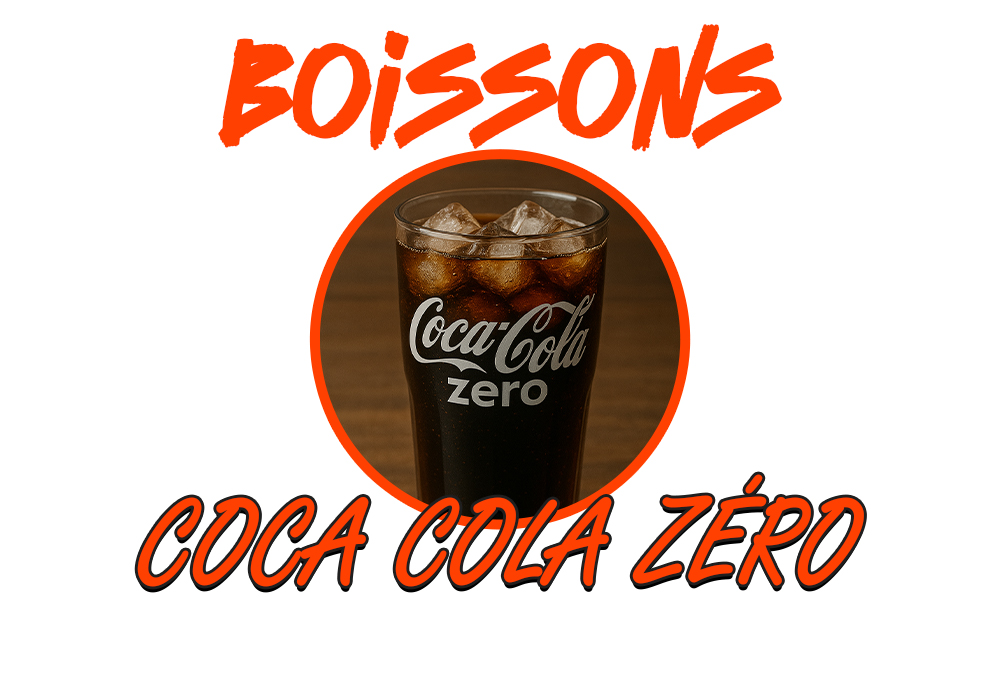
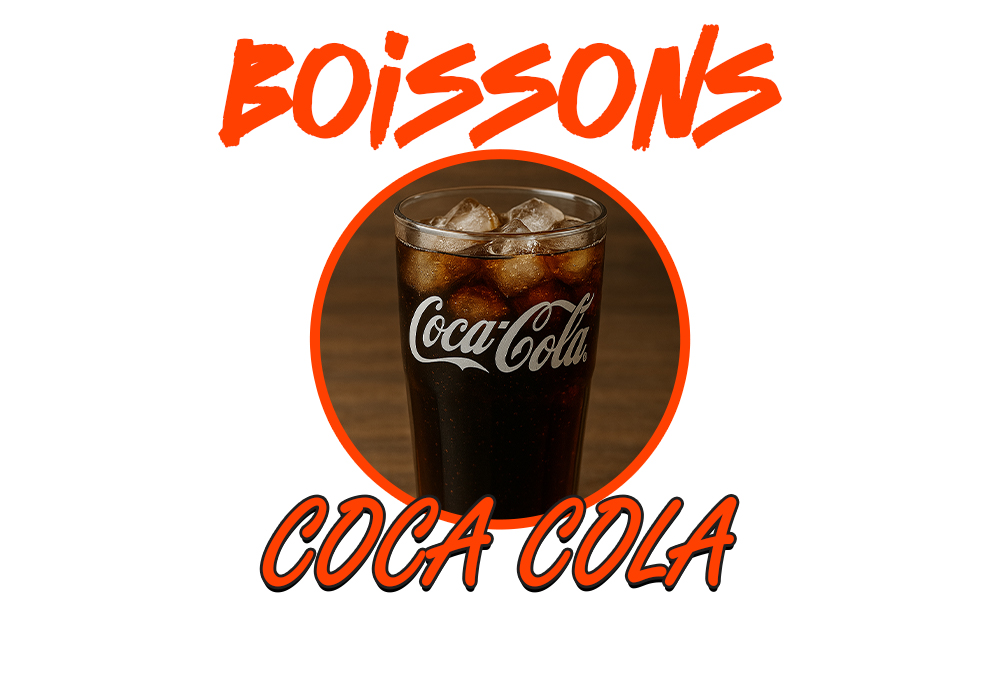
fixed and adjusted prices and categories and everything related to seeders according to midnight sushi menu logic

Changed region(s): [[0.124, 0.6804, 0.868, 0.8969], [0.403, 0.2784, 0.62, 0.6495]]

diff --git a/database/seeders/ProductsSeeder.php b/database/seeders/ProductsSeeder.php
@@ -18,21 +18,21 @@ class ProductsSeeder extends Seeder
             'Nigiris' => Category::firstOrCreate(['name' => 'Nigiris'], ['slug' => 'nigiris'])->id,
             'Desserts' => Category::firstOrCreate(['name' => 'Desserts'], ['slug' => 'desserts'])->id,
             'Condiments' => Category::firstOrCreate(['name' => 'Condiments'], ['slug' => 'condiments'])->id,
+            'Boissons' => Category::firstOrCreate(['name' => 'Boissons'], ['slug' => 'boissons'])->id,
         ];
-
         $products = [
             // Californias
             [
-                'name' => 'Californias Saumon-Avocat',
-                'price' => 19.00,
+                'name' => 'Californias Saumon-Avocat x8',
+                'price' => 18.00,
                 'description' => 'Saumon et avocat',
                 'category_id' => $categories['Californias'],
                 'image' => 'images/midnight_sushi/californias-saumon-avocat.jpg',
                 'allergens' => ['Poisson', 'Gluten']
             ],
             [
-                'name' => 'Californias Saumon-Avocat Cheese',
-                'price' => 12.00,
+                'name' => 'Californias Saumon-Avocat Cheese x8',
+                'price' => 19.00,
                 'description' => 'Saumon, avocat, fromage frais',
                 'category_id' => $categories['Californias'],
                 'image' => 'images/midnight_sushi/californias-saumon-avocat-cheese.jpg',
@@ -57,16 +57,16 @@ class ProductsSeeder extends Seeder
                 'allergens' => ['Poisson', 'Gluten']
             ],
             [
-                'name' => 'Maki Saumon Avocat',
-                'price' => 14.00,
+                'name' => 'Maki Saumon Avocat x8',
+                'price' => 12.00,
                 'description' => 'Maki au saumon frais et avocat',
                 'category_id' => $categories['Makis'],
                 'image' => 'images/midnight_sushi/maki-saumon-avocat.jpg',
                 'allergens' => ['Poisson', 'Gluten']
             ],
             [
-                'name' => 'Maki Crevette Avocat',
-                'price' => 15.00,
+                'name' => 'Maki Crevette Avocat x8',
+                'price' => 12.00,
                 'description' => 'Maki aux crevettes et avocat',
                 'category_id' => $categories['Makis'],
                 'image' => 'images/midnight_sushi/maki-crevette-avocat.jpg',
@@ -90,11 +90,20 @@ class ProductsSeeder extends Seeder
                 'image' => 'images/midnight_sushi/nigiri-crevette-x2.jpg',
                 'allergens' => ['Crustacés']
             ],
+            [
+                'name' => 'Nigiri Thon x2',
+                'price' => 10.00,
+                'description' => 'Tranches de thon frais sur riz vinaigré', 
+                'category_id' => $categories['Nigiris'],
+                'image' => 'images/midnight_sushi/nigiri-thon-x2.jpg', 
+                'allergens' => ['Poisson'] 
+            ],
+
 
             // Desserts
             [
                 'name' => 'Tiramisu Speculos Maison',
-                'price' => 6.00,
+                'price' => 7.00,
                 'description' => 'Une touche sucrée pour terminer votre repas',
                 'category_id' => $categories['Desserts'],
                 'image' => 'images/midnight_sushi/tiramisu-speculos-maison.jpg',
@@ -102,11 +111,19 @@ class ProductsSeeder extends Seeder
             ],
             [
                 'name' => 'Cookie aux Trois Pépites',
-                'price' => 7.00,
+                'price' => 3.50,
                 'description' => 'Trois chocolats : noir, blanc et lait',
                 'category_id' => $categories['Desserts'],
                 'image' => 'images/midnight_sushi/cookie-trois-pepites.jpg',
                 'allergens' => ['Gluten', 'Lait', 'Soja']
+            ],
+            [
+                'name' => 'Tiramisu Classique',
+                'price' => 6.00,
+                'description' => 'Une touche sucrée pour terminer votre repas',
+                'category_id' => $categories['Desserts'],
+                'image' => 'images/midnight_sushi/tiramisu-classique.jpg',
+                'allergens' => ['Gluten', 'Lait', 'Œufs']
             ],
 
             // Condiments
@@ -126,6 +143,56 @@ class ProductsSeeder extends Seeder
                 'image' => 'images/midnight_sushi/wasabi.jpg',
                 'allergens' => ['Moutarde']
             ],
+            [
+                'name' => 'Wakame',
+                'price' => 6.50,
+                'description' => "Salade d'algues wakame", 
+                'category_id' => $categories['Condiments'],
+                'image' => 'images/midnight_sushi/wakame.jpg',
+                'allergens' => ['Poisson']
+            ],
+
+        // Boissons
+        [
+            'name' => 'Ice Tea Pêche',
+            'price' => 3.50,
+            'description' => 'Boisson rafraîchissante saveur pêche',
+            'category_id' => $categories['Boissons'],
+            'image' => 'images/midnight_sushi/ice-tea-peche.jpg',
+            'allergens' => []
+        ],
+        [
+            'name' => 'Ice Tea Mangue Ananas',
+            'price' => 3.50,
+            'description' => 'Mélange exotique mangue et ananas',
+            'category_id' => $categories['Boissons'],
+            'image' => 'images/midnight_sushi/ice-tea-mangue-ananas.jpg',
+            'allergens' => []
+        ],
+        [
+            'name' => 'Ice Tea Citron',
+            'price' => 3.50,
+            'description' => 'Classique au citron jaune',
+            'category_id' => $categories['Boissons'],
+            'image' => 'images/midnight_sushi/ice-tea-citron.jpg',
+            'allergens' => []
+        ],
+        [
+            'name' => 'Coca Cola',
+            'price' => 3.50,
+            'description' => 'Soda au cola classique 33cl',
+            'category_id' => $categories['Boissons'],
+            'image' => 'images/midnight_sushi/coca-cola.jpg',
+            'allergens' => []
+        ],
+        [
+            'name' => 'Coca Cola Zéro',
+            'price' => 3.50,
+            'description' => 'Version sans sucre du Coca Cola',
+            'category_id' => $categories['Boissons'],
+            'image' => 'images/midnight_sushi/coca-cola-zero.jpg',
+            'allergens' => []
+        ],
         ];
 
         foreach ($products as $product) {

diff --git a/database/seeders/DeliveriesSeeder.php b/database/seeders/DeliveriesSeeder.php
@@ -6,29 +6,23 @@ use Illuminate\Database\Seeder;
 use App\Models\Delivery;
 use App\Models\Order;
 use App\Models\User;
-use App\Models\Setting; // <-- important if you want to fetch fee from settings
+use App\Models\Setting;
 use Carbon\Carbon;
 
 class DeliveriesSeeder extends Seeder
 {
     public function run(): void
     {
-        // If you only want to assign deliveries for orders currently 'pending':
-        // $orders = Order::where('status', 'pending')->get();
-
-        // Or, if you want deliveries for *all* orders:
+        $referenceDate = Carbon::create(2024, 1, 1, 0, 0, 0);
         $orders = Order::all();
-
-        // Use your existing scope: role('delivery_person')
         $deliveryPersons = User::role('delivery_person')->get();
 
         if ($orders->isEmpty()) {
-            $this->command->warn('No orders found. Skipping DeliveriesSeeder.');
+            $this->command->warn('Aucune commande trouvée. DeliveriesSeeder ignoré.');
             return;
         }
 
         if ($deliveryPersons->isEmpty()) {
-            // Optionally generate some new delivery persons
             User::factory(5)->create(['role' => 'delivery_person']);
             $deliveryPersons = User::role('delivery_person')->get();
         }
@@ -41,18 +35,19 @@ class DeliveriesSeeder extends Seeder
         ];
 
         foreach ($orders as $order) {
-            // Random final status for demonstration (assigned, picked_up, delivered, returned)
             $status = collect(['assigned', 'picked_up', 'delivered', 'returned'])->random();
 
-            // Build timestamps
-            $assignedAt = Carbon::now()->subDays(rand(1, 5));
+            // Generate dates relative to reference date
+            $assignedAt = $referenceDate->copy()->subDays(rand(1, 5));
             $pickedUpAt = $status !== 'assigned'
                 ? $assignedAt->copy()->addHours(rand(1, 6))
                 : null;
-            $deliveredAt = $status === 'delivered'
+
+            $deliveredAt = ($status === 'delivered' && $pickedUpAt)
                 ? $pickedUpAt->copy()->addHours(rand(1, 6))
                 : null;
-            $returnedAt = $status === 'returned'
+
+            $returnedAt = ($status === 'returned' && $pickedUpAt)
                 ? $pickedUpAt->copy()->addHours(rand(1, 6))
                 : null;
 
@@ -60,10 +55,10 @@ class DeliveriesSeeder extends Seeder
                 'order_id'           => $order->id,
                 'delivery_person_id' => $deliveryPersons->random()->id,
                 'status'             => $status,
-                'assigned_at'        => $assignedAt,
-                'picked_up_at'       => $pickedUpAt,
-                'delivered_at'       => $deliveredAt,
-                'returned_at'        => $returnedAt,
+                'assigned_at'        => $assignedAt->format('Y-m-d H:i:s'),
+                'picked_up_at'       => $pickedUpAt instanceof Carbon ? $pickedUpAt->format('Y-m-d H:i:s') : null,
+                'delivered_at'       => $deliveredAt instanceof Carbon ? $deliveredAt->format('Y-m-d H:i:s') : null,
+                'returned_at'        => $returnedAt instanceof Carbon ? $returnedAt->format('Y-m-d H:i:s') : null,
                 'return_reason'      => $status === 'returned' ? collect($returnReasons)->random() : null,
                 'address_text'       => $order->address_text,
                 'phone_number'       => $order->phone_number,
@@ -71,7 +66,5 @@ class DeliveriesSeeder extends Seeder
                 'delivery_fee'       => Setting::getValue('delivery_fee', 2.50),
             ]);
         }
-
-        $this->command->info('Deliveries seeded successfully!');
     }
 }

diff --git a/resources/views/livewire/menus-products.blade.php b/resources/views/livewire/menus-products.blade.php
@@ -33,7 +33,7 @@
                         src="{{ $menu->image }}" 
                         alt="{{ $menu->name }}"
                         class="w-full h-48 object-cover rounded-t-lg"
-                        onerror="this.src='{{ asset('images/placeholder.jpg') }}'"
+                        onerror="this.src='{{ asset('images/midnight_sushi/midnight_menu.jpg.jpg') }}'"
                     />
                     
                     <div class="p-4 space-y-3">
@@ -122,7 +122,7 @@
                         src="{{ $product->image }}" 
                         alt="{{ $product->name }}"
                         class="w-full h-48 object-cover rounded-t-lg"
-                        onerror="this.src='{{ asset('images/placeholder.jpg') }}'"
+                        onerror="this.src='{{ asset('images/midnight_sushi/midnight_product.jpg.jpg') }}'"
                     />
                     
                     <div class="p-4 space-y-3">

diff --git a/database/seeders/MenuSeeder.php b/database/seeders/MenuSeeder.php
@@ -13,7 +13,7 @@ class MenuSeeder extends Seeder
         $menus = [
             [
                 'name' => 'Menu California S',
-                'price' => 20.00,
+                'price' => 22.00,
                 'description' => '8 californias au choix, une boisson et un dessert',
                 'image' => 'images/midnight_sushi/menu-california-s.jpg'
             ],

diff --git a/database/seeders/CategoriesSeeder.php b/database/seeders/CategoriesSeeder.php
@@ -15,6 +15,7 @@ class CategoriesSeeder extends Seeder
             ['name' => 'Nigiris'],
             ['name' => 'Desserts'],
             ['name' => 'Menus'],
+            ['name'=>'Boissons']
         ];
 
         foreach ($categories as $category) {
